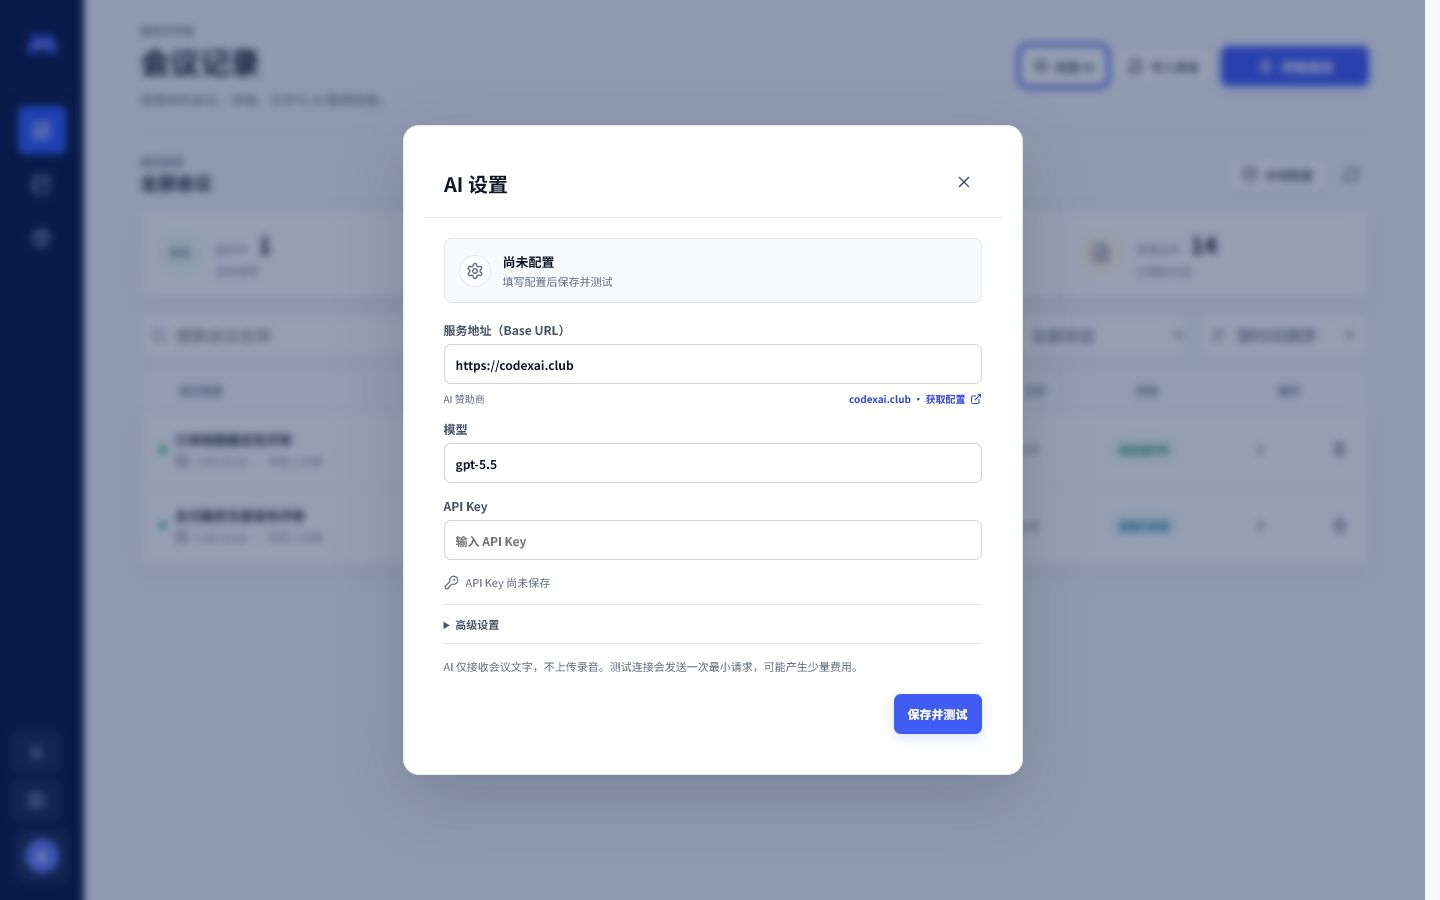
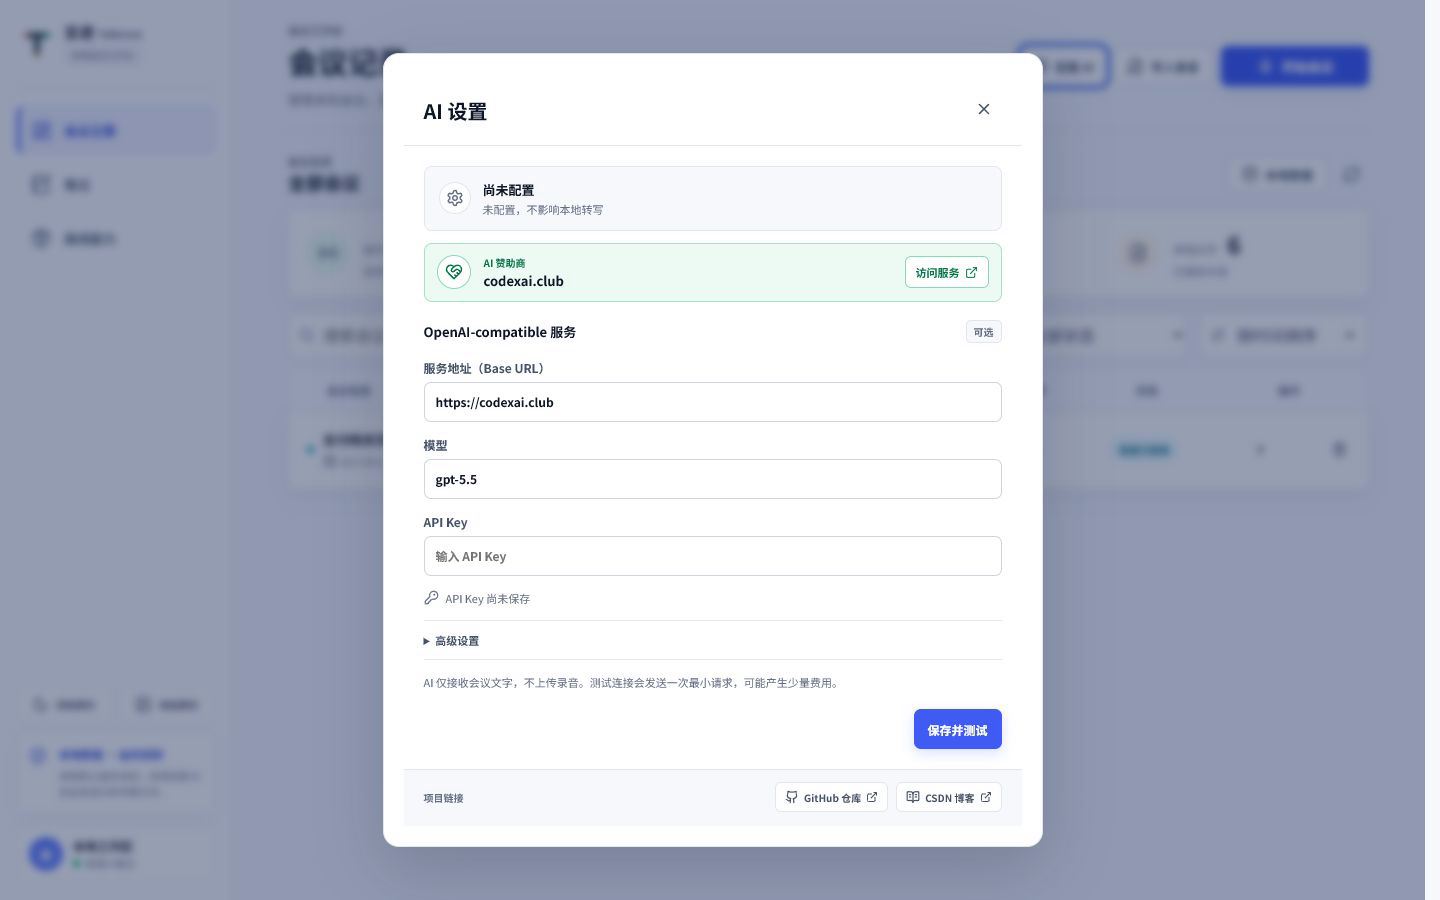
docs: refresh Talktrace guides and screenshots

diff --git a/README.md b/README.md
@@ -1,12 +1,12 @@
-# Meeting Copilot
+# 言迹 Talktrace
 
-本地优先的中文技术会议助手。Meeting Copilot 将实时转写、议题跟踪、证据化建议、会后复盘和个人笔记放在同一个桌面工作台中。
+本地优先的中文技术会议工作台。言迹 Talktrace 将实时转写、议题跟踪、证据化建议、会后复盘和个人笔记放在同一个桌面工作台中。
 
 [官网](https://meeting.codexai.club/) · [GitHub](https://github.com/luguochang/meeting-copilot) · [CSDN 博客](https://blog.csdn.net/luguochang) · [AI 赞助商](https://codexai.club/)
 
 > 当前版本：Windows `0.1.0` 公开预览。项目采用单用户、本地运行模式；远程 AI 分析仅在用户主动配置 OpenAI-compatible 服务后启用。Windows 安装包尚未进行代码签名。
 
-![Meeting Copilot 界面预览](docs/assets/meeting-copilot-tour.gif)
+![言迹 Talktrace 界面预览](docs/assets/talktrace-tour.gif)
 
 ## 主要功能
 
@@ -19,15 +19,15 @@
 - **离线能力**：管理本地 ASR 能力包与运行状态。
 - **服务配置**：在桌面端保存并检测 OpenAI-compatible 分析服务。
 
-![会议历史](docs/assets/workbench-history.png)
+![会议历史](docs/assets/talktrace-workbench-history.png)
 
 ### 实时会议
 
-![实时会议工作台](docs/assets/workbench-live.png)
+![实时会议工作台](docs/assets/talktrace-workbench-live.png)
 
 ### 会后复盘
 
-![会后复盘](docs/assets/workbench-review.png)
+![会后复盘](docs/assets/talktrace-workbench-review.png)
 
 ## 下载 Windows 版
 
@@ -35,7 +35,7 @@
 
 | 文件 | 用途 | SHA-256 |
 | --- | --- | --- |
[2 lines of base64/hex data omitted]
 
 基础客户端包含桌面应用和本地服务，可以启动工作台、管理会议与笔记、配置 AI 分析服务并导入离线能力包。仓库和基础客户端不包含 ASR 模型；实时本地转写和录音文件转写需要另行取得许可明确、与平台匹配的 `.mcpkg` 能力包。当前完整能力包尚未公开分发。
 
@@ -131,6 +131,6 @@ cargo check --locked --manifest-path ..\code\desktop_tauri\src-tauri\Cargo.toml
 
 ## 许可
 
-第一方代码使用仓库中的 [Meeting Copilot Source License](LICENSE)。第三方依赖、模型、字体和二进制文件仍受各自许可约束，详见 [NOTICE](NOTICE) 与 [SBOM](sbom.cdx.json)。
+第一方代码使用仓库中的 [Talktrace Source License](LICENSE)。第三方依赖、模型、字体和二进制文件仍受各自许可约束，详见 [NOTICE](NOTICE) 与 [SBOM](sbom.cdx.json)。
 
 Copyright (c) 2026 [luguochang](https://github.com/luguochang).

diff --git a/docs/installation.md b/docs/installation.md
@@ -2,23 +2,23 @@
 
 ## Windows 安装程序
 
-在 [GitHub Release v0.1.0](https://github.com/luguochang/meeting-copilot/releases/tag/v0.1.0) 下载 `Meeting-Copilot-0.1.0-windows-x64-base-unsigned.exe`。
+在 [GitHub Release v0.1.0](https://github.com/luguochang/meeting-copilot/releases/tag/v0.1.0) 下载 `Talktrace-0.1.0-windows-x64-base-unsigned.exe`。
 
 安装程序 SHA-256：
 
 ```text
[2 lines of base64/hex data omitted]
 ```
 
 在 PowerShell 中校验下载文件：
 
 ```powershell
-Get-FileHash .\Meeting-Copilot-0.1.0-windows-x64-base-unsigned.exe -Algorithm SHA256
+Get-FileHash .\Talktrace-0.1.0-windows-x64-base-unsigned.exe -Algorithm SHA256
 ```
 
 当前安装程序尚未进行 Authenticode 代码签名，Windows SmartScreen 可能显示提示。请先确认下载来源和哈希，不要使用第三方重新打包的文件。
 
-安装后从开始菜单启动 Meeting Copilot。卸载时打开 Windows“设置 > 应用 > 已安装的应用”，找到 Meeting Copilot 并选择“卸载”。卸载应用不会代替用户的数据备份流程；需要保留的会议内容应先在应用中导出。
+安装后从开始菜单启动言迹 Talktrace。卸载时打开 Windows“设置 > 应用 > 已安装的应用”，找到 Talktrace 并选择“卸载”。卸载应用不会代替用户的数据备份流程；需要保留的会议内容应先在应用中导出。
 
 该安装包按当前用户安装，不要求管理员权限，也不会注册 Windows 服务、开机启动项或防火墙规则。首次启动时若系统缺少 Microsoft Edge WebView2 Runtime，安装器可能联网下载该系统组件。麦克风权限只在用户开始会议并选择音频输入时由 Windows 请求；导入录音和能力包时只读取用户主动选择的文件。
 
@@ -41,7 +41,7 @@ Get-FileHash .\Meeting-Copilot-0.1.0-windows-x64-base-unsigned.exe -Algorithm SH
 需要把数据库、录音、日志和能力包整体放到 D/E 盘时，在启动客户端前设置绝对路径。例如：
 
 ```powershell
-setx MEETING_COPILOT_STORAGE_DIR "D:\MeetingCopilotData"
+setx MEETING_COPILOT_STORAGE_DIR "D:\TalktraceData"
 ```
 
 完全退出客户端后重新启动，设置才会生效。不要把新目录放在安装目录内部，也不要在客户端运行时手动移动其中的文件。若要恢复默认路径，可执行 `reg delete HKCU\Environment /v MEETING_COPILOT_STORAGE_DIR /f` 后重新登录 Windows，或在“系统属性 > 环境变量”中删除同名用户变量。

diff --git a/docs/user-guide.md b/docs/user-guide.md
@@ -9,6 +9,8 @@
 
 会议只会在用户明确操作后开始采音。首次使用麦克风时，系统可能显示权限请求。
 
+![会前检查](assets/meeting-preflight-dialog.png)
+
 ## 会中工作台
 
 - **连续文字**：查看暂定、确认和后续校正的转写内容。
@@ -17,6 +19,8 @@
 - **会议控制**：暂停、继续或结束会议，并观察录音、转写与 AI 状态。
 
 建议是辅助信息，不会自动替团队确定负责人、截止时间或技术结论。
+
+![会中工作台](assets/talktrace-workbench-live.png)
 
 ## 会后复盘
 
@@ -29,6 +33,8 @@
 
 分析仍在运行时，界面会显示处理中状态；失败时会保留可重试入口，而不是用空内容代替结果。
 
+![会后复盘](assets/talktrace-workbench-review.png)
+
 ## 导入录音
 
 1. 在“会议”页面点击“导入录音”。
@@ -38,13 +44,19 @@
 
 请勿在任务执行期间移动应用正在管理的内部音频文件。原始导入文件是否保留，以导入窗口中的选项和当前版本行为为准。
 
+![导入录音](assets/import-recording-dialog.png)
+
 ## 管理历史会议
 
 历史列表支持搜索、状态筛选和排序。会议菜单提供重命名和删除。删除是不可逆操作，会同时清理该会议受控目录中的数据库记录、录音和派生任务；操作前请先导出需要保留的内容。
 
+![会议历史](assets/talktrace-workbench-history.png)
+
 ## 个人笔记
 
 “笔记”用于保存不必绑定某场会议的个人内容。可新建、编辑、搜索和删除笔记。笔记与会议数据一样保存在本地数据目录中。
+
+![个人笔记](assets/talktrace-workbench-notes.png)
 
 ## 离线能力
 
@@ -64,3 +76,5 @@
 4. 检测成功后保存。
 
 远程服务不可用时，本地会议记录和转写仍可使用；AI 建议、摘要或文档分析会进入未配置、暂停或失败状态。
+
+![AI 服务设置](assets/ai-settings-dialog.png)

diff --git a/docs/troubleshooting.md b/docs/troubleshooting.md
@@ -15,7 +15,7 @@
 安装目录只保存程序文件。会议数据库、录音、日志和能力包默认使用当前用户的 `%LOCALAPPDATA%`，以避免升级或卸载误删数据。要整体迁移到其他磁盘，请先完全退出客户端，再设置用户环境变量：
 
 ```powershell
-setx MEETING_COPILOT_STORAGE_DIR "E:\MeetingCopilotData"
+setx MEETING_COPILOT_STORAGE_DIR "E:\TalktraceData"
 ```
 
 重新启动后，新数据和导入的能力包会写入该目录。WebView2 运行缓存仍可能出现在系统盘的 `%LOCALAPPDATA%\com.meetingcopilot.desktop\EBWebView`，它不是模型目录。

diff --git a/docs/architecture.md b/docs/architecture.md
@@ -1,6 +1,6 @@
 # 架构说明
 
-Meeting Copilot 是单用户、本地优先的桌面应用。React 工作台通过回环地址访问 FastAPI 服务；Tauri 提供桌面生命周期、安全配置和原生音频桥接；本地 ASR 运行时负责实时与文件转写。
+言迹 Talktrace 是单用户、本地优先的桌面应用。React 工作台通过回环地址访问 FastAPI 服务；Tauri 提供桌面生命周期、安全配置和原生音频桥接；本地 ASR 运行时负责实时与文件转写。
 
 ```mermaid
 flowchart LR

diff --git a/docs/privacy.md b/docs/privacy.md
@@ -1,6 +1,6 @@
 # 隐私说明
 
-Meeting Copilot 当前采用单用户、本地运行架构。本文说明默认数据流和用户启用远程 AI 后的变化，不替代组织自身的隐私合规要求。
+言迹 Talktrace 当前采用单用户、本地运行架构。本文说明默认数据流和用户启用远程 AI 后的变化，不替代组织自身的隐私合规要求。
 
 ## 默认保存在本地的数据
 
